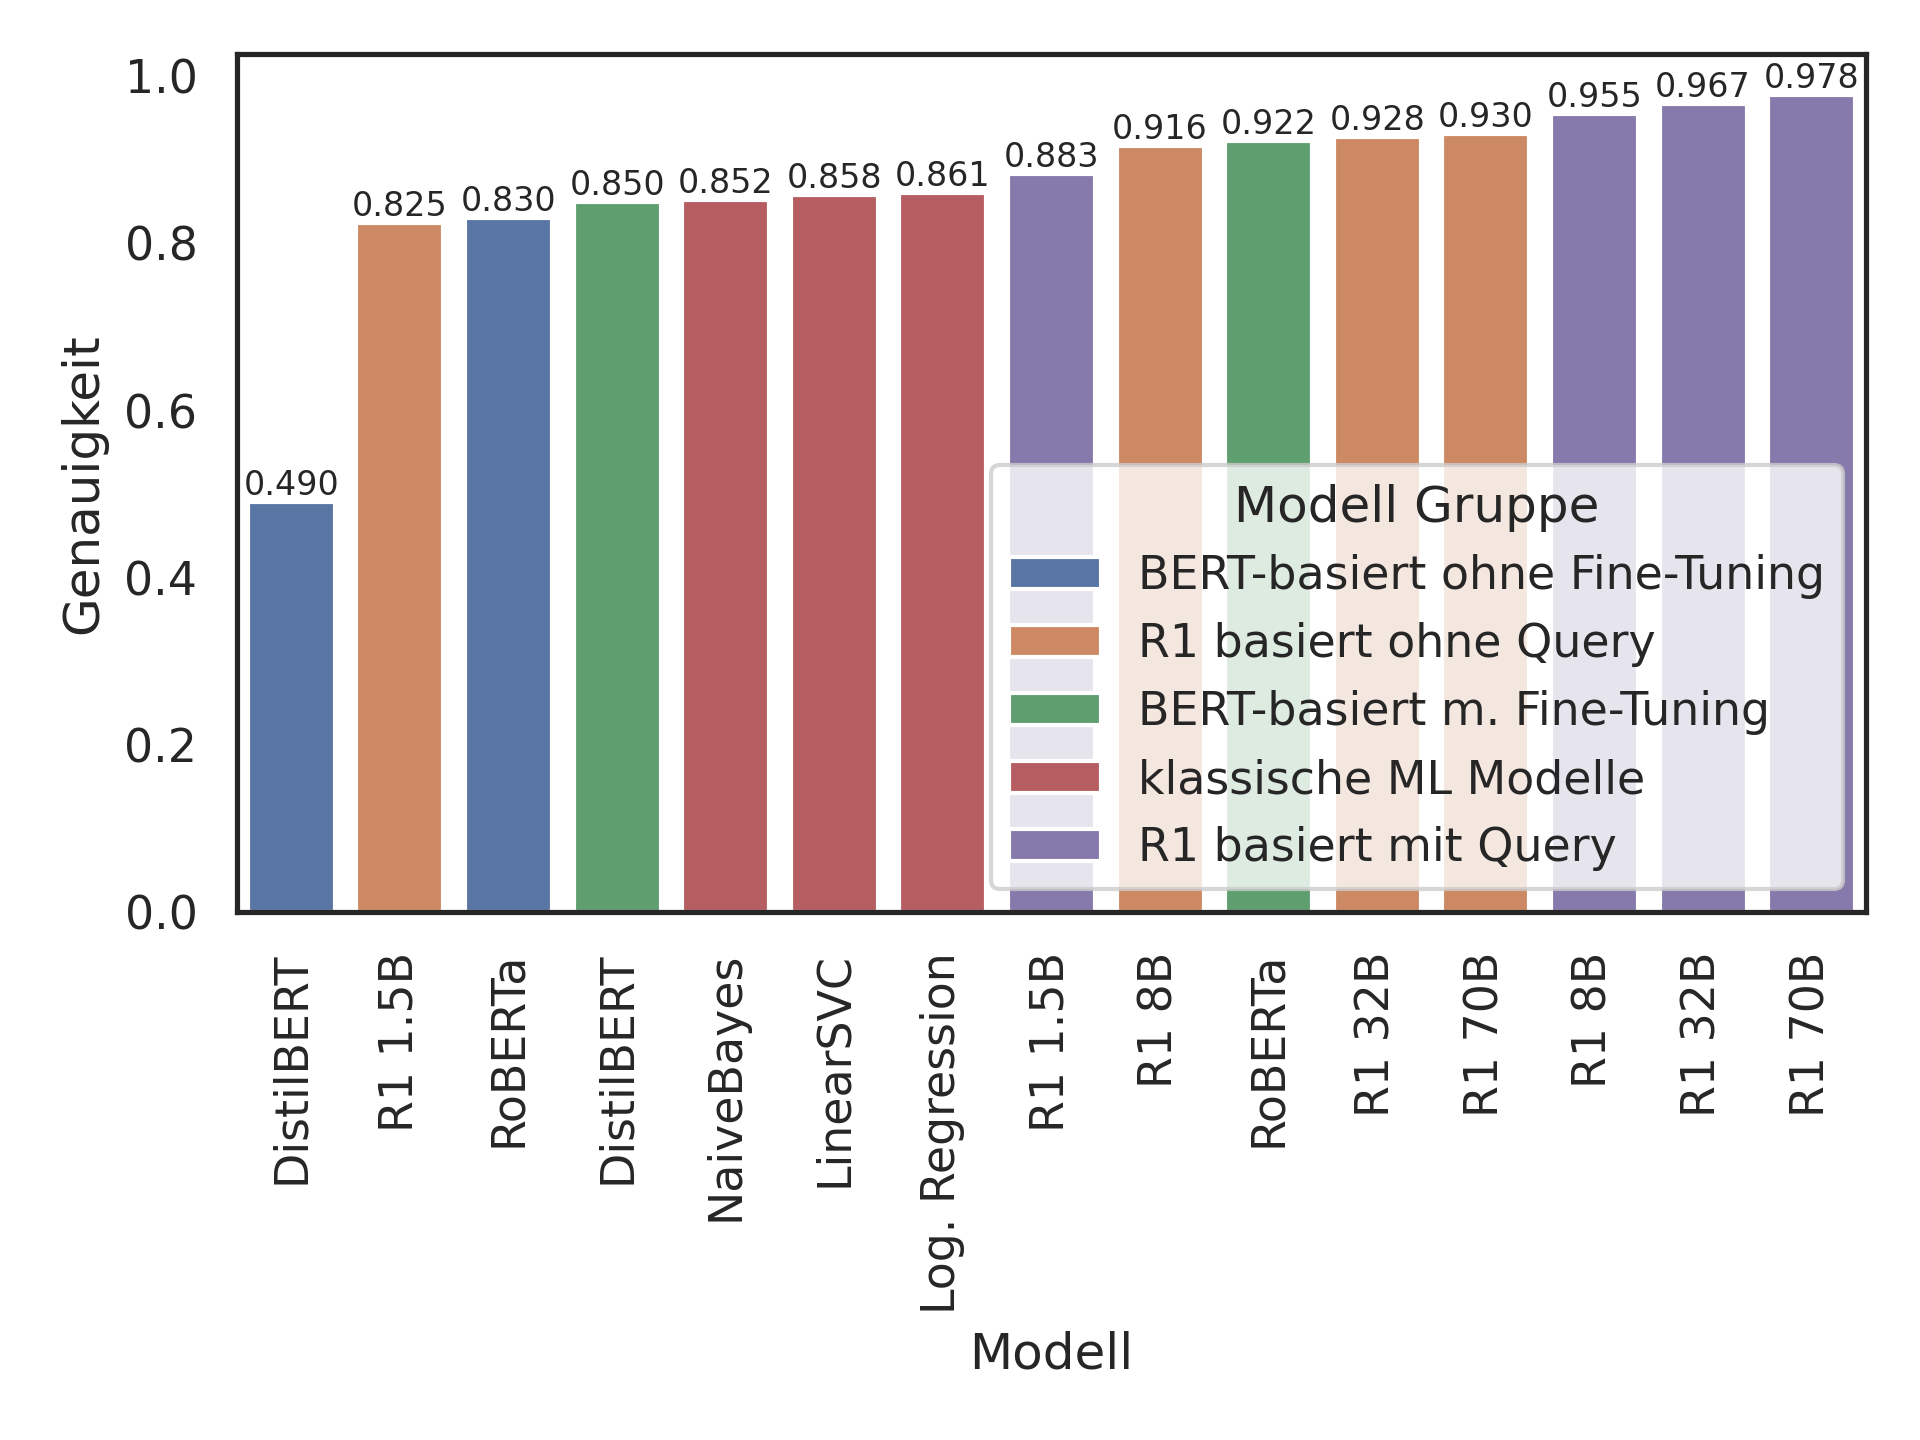
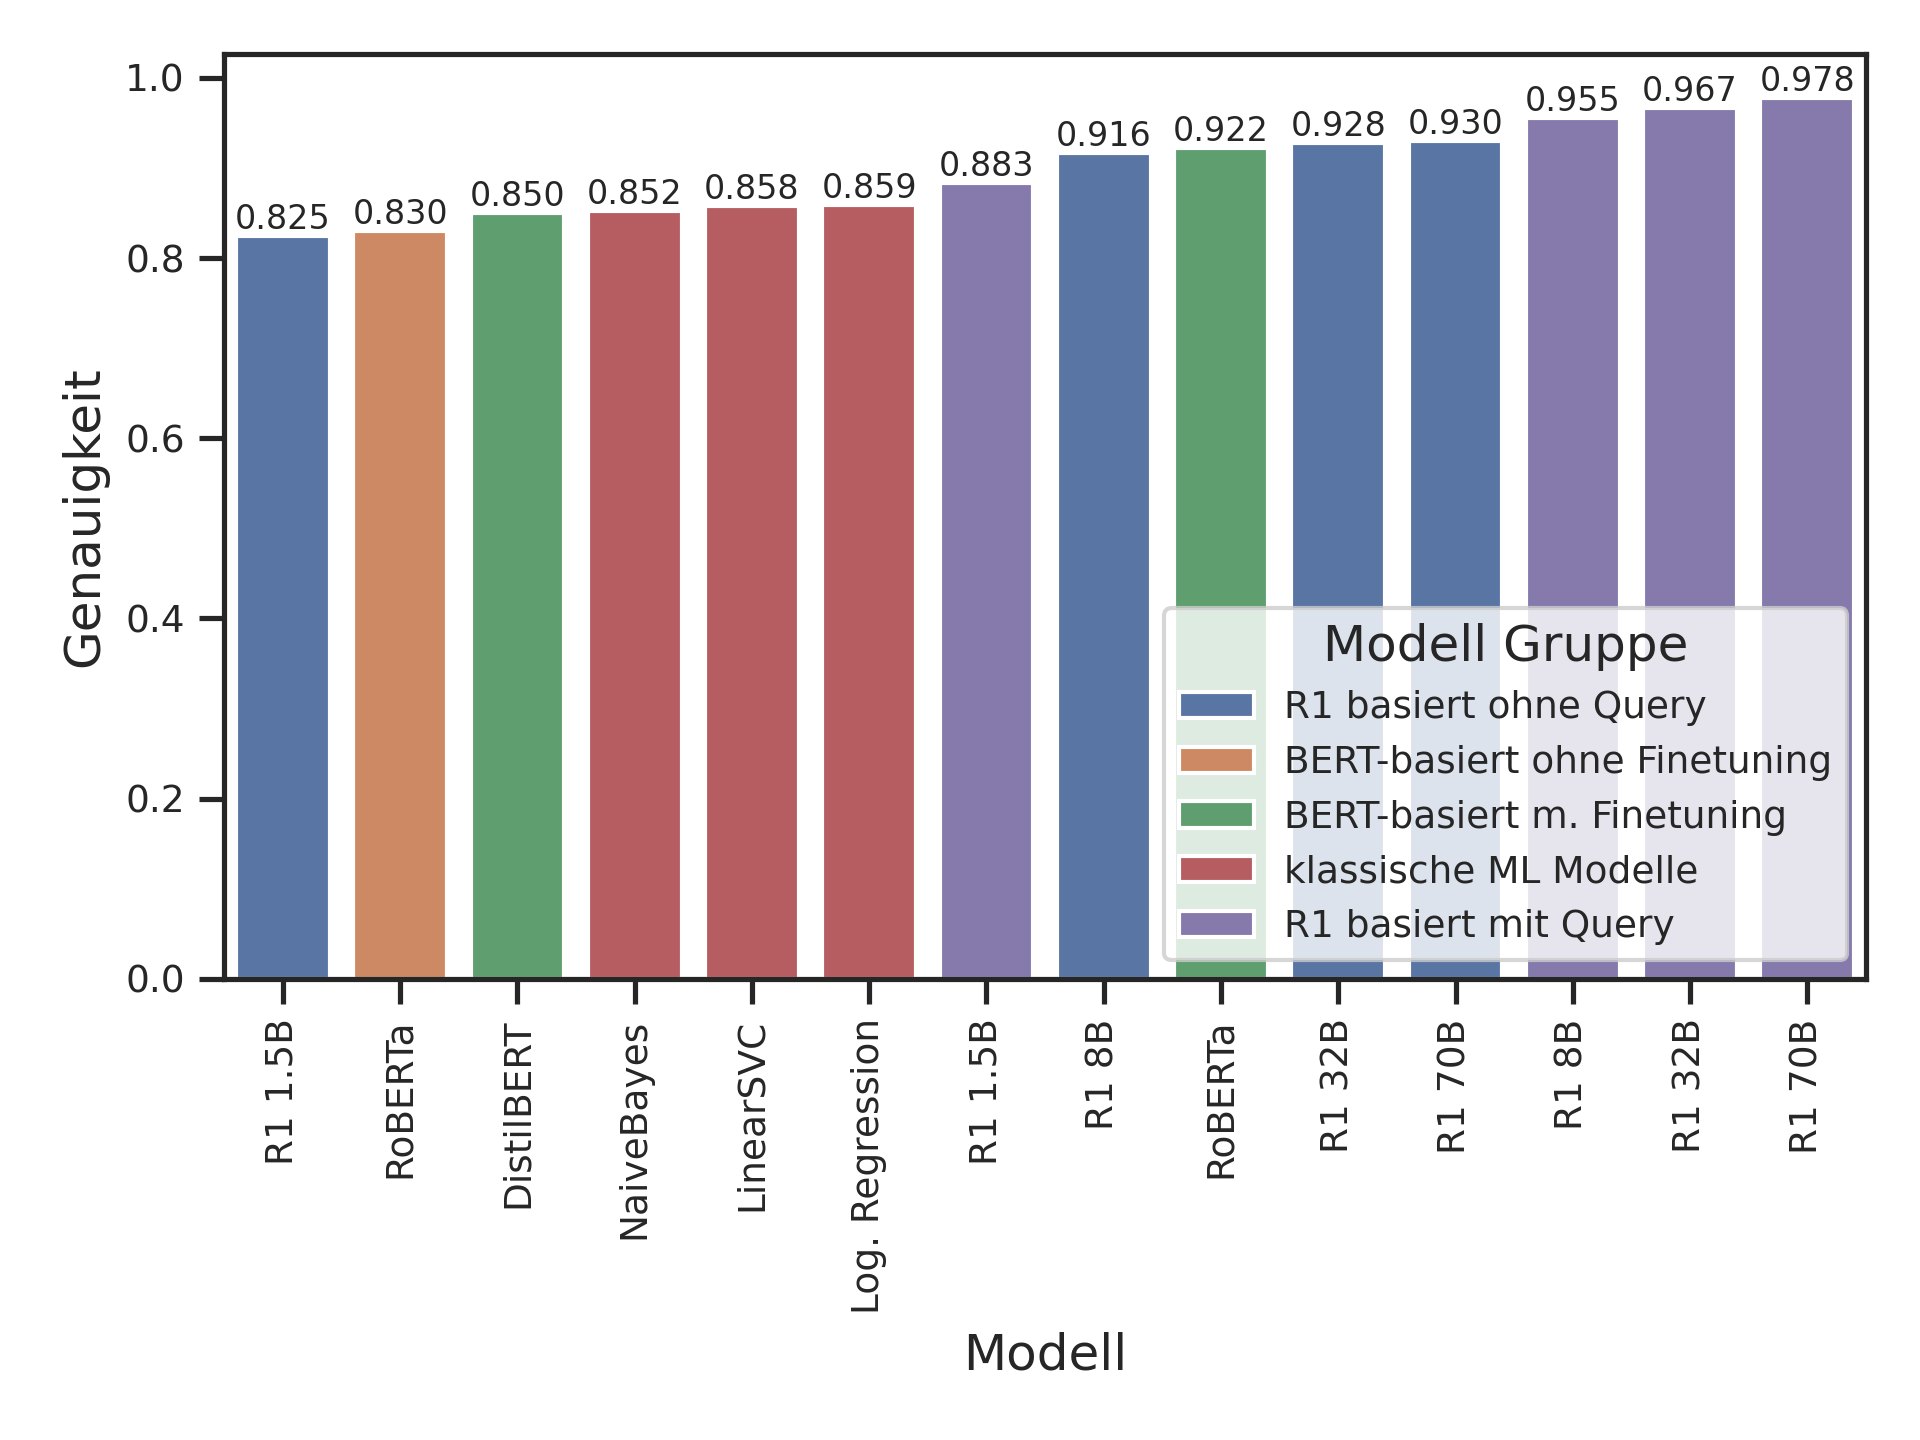
feat: update plots to reflect latest changes
The non-finetuned results for the DistilBERT model were removed

diff --git a/Abschlusspräsentation/aig_beamer.tex b/Abschlusspräsentation/aig_beamer.tex
@@ -282,7 +282,7 @@
 
 \begin{frame}{Ergebnisse - BERT-Modelle}
     \centering
-     \includegraphics[scale=0.65]{../datasets/sentiment140/results/plots/bert-based-genauigkeit-bert-basierte-modelle-default-vs.-fine-tuned-truncated-y-axis.png}
+     \includegraphics[scale=0.65]{../datasets/sentiment140/results/plots/bert-based-genauigkeit-bert-basierte-modelle-default-vs.-finetuning-truncated-y-axis.png}
 \end{frame}
 
 
